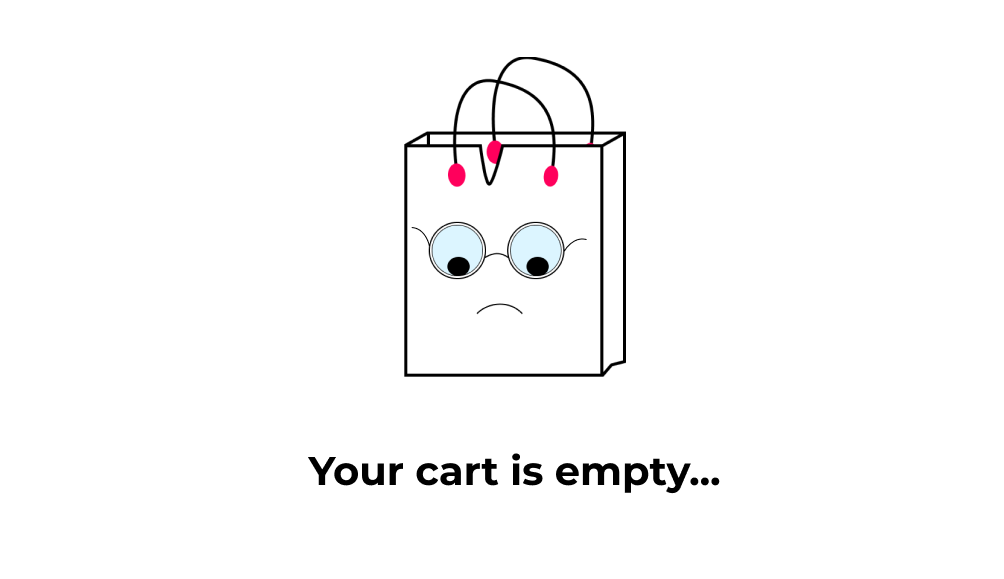
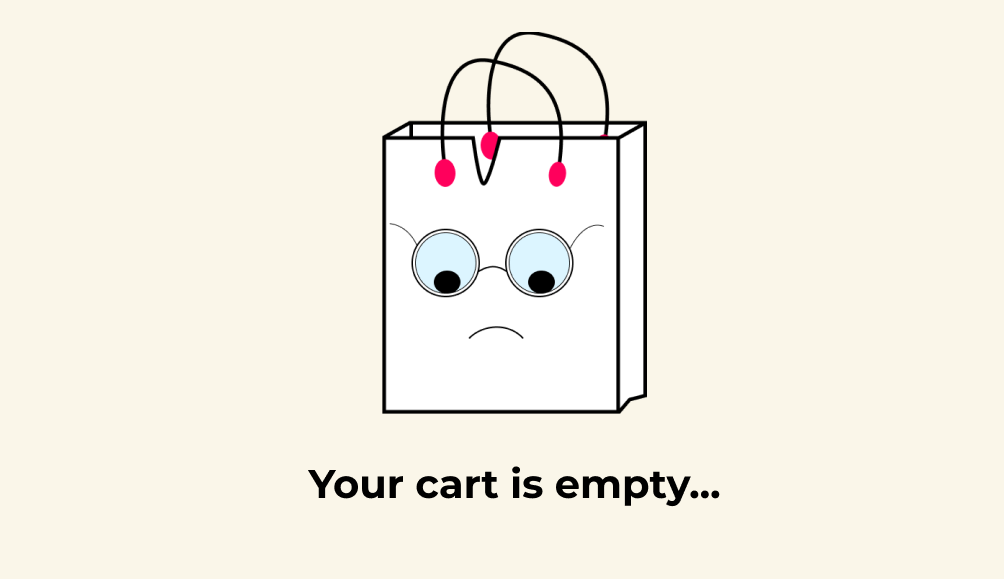
Change pictures Minor cart shop changes

Changed region(s): [[0.3705, 0.0311, 0.6484, 0.715], [0.3088, 0.7772, 0.7102, 0.8705], [0.4631, 0.5596, 0.5249, 0.5907]]

diff --git a/cart.css b/cart.css
@@ -19,7 +19,16 @@ html {
 .main-cart-container {
     display: flex;
 }
-
+.header {
+    width: 100%;
+    height: 300px;
+    overflow: hidden;
+}
+.shop-image {
+    object-fit: cover;
+    width: 100%;
+    height: 100%;
+}
 .cart-title {
     margin-left: 40px;
     margin-top: 30px;
@@ -27,12 +36,17 @@ html {
     font-weight: 900;
 }
 
+.empty-cart-title {
+    max-width: 700px;
+    padding: 30px;
+}
+
 .cart-item-container {
     display: flex;
     /* flex-wrap: wrap; */
     flex-direction: column;
     flex: 4;
-    background-color: lightcoral;
+    /* background-color: lightcoral; */
 }
 
 .checkout-item {
@@ -45,6 +59,10 @@ html {
     padding: 10px;
     width: 700px;
     margin-left: 30px;
+}
+
+.checkout-item:hover {
+    box-shadow: 2px 2px 2px 2px rgb(60, 60, 60, 0.4);
 }
 
 .checkout-photo {
@@ -104,7 +122,7 @@ html {
     display: flex;
     flex: 3;
     flex-direction: row;
-    background-color: lightblue;
+    /* background-color: lightblue; */
     align-items: center;
 }
 
@@ -114,6 +132,7 @@ html {
     align-items: center;
     justify-content: center;
     padding: 10px;
+    margin-left: 70px;
 }
 
 .submit-form {

diff --git a/cart.js b/cart.js
@@ -4,9 +4,9 @@ function setupOrderList() {
     const mainContainer = document.getElementById('itemContainer');
     mainContainer.innerHTML = "";
     if (shopItems == null || shopItems.length === 0) {
-        const emptyCartTitle = document.createElement('h3');
+        const emptyCartTitle = document.createElement('img');
         emptyCartTitle.className = 'empty-cart-title';
-        emptyCartTitle.innerHTML = 'Your orders will be placed here!';
+        emptyCartTitle.src = 'Frame 7.png';
         mainContainer.appendChild(emptyCartTitle);
     } else {
         for (let shopItem of shopItems) {

diff --git a/shop.css b/shop.css
@@ -16,10 +16,14 @@ body, html {
 }
 
 .header {
-    padding: 80px;
-    text-align: center;
-    background: #1abc9c;
-    color: white;
+    width: 100%;
+    height: 400px;
+    overflow: hidden;
+}
+.shop-image {
+    object-fit: cover;
+    width: 100%;
+    height: 100%;
 }
 
 .redirection {
@@ -67,6 +71,8 @@ body, html {
     flex: 2;
     width: 20%;
     background-color: white;
+    position: relative;
+    display: inline-block;
 }
 
 

diff --git a/cart.html b/cart.html
@@ -11,6 +11,9 @@
     <div class="navigation-bar" id="navigationBar">
 
     </div>
+    <div class="header">
+        <img src="Frame 5.png" class="shop-image">
+      </div>
     <h2 class="cart-title">
         Your Orders
     </h2>
@@ -37,7 +40,7 @@
                     
                 </div>
                 <div class="checkout-price-container">
-                    gggg
+                   
                 </div>
             </div>
 

diff --git a/shop.html b/shop.html
@@ -13,8 +13,7 @@
     </div>
   <!-- header - discount -->
   <div class="header">
-    <h1>My Website</h1>
-    <p>With a <b>flexible</b> layout.</p>
+    <img src="Frame 5.png" class="shop-image">
   </div>
   <div class="redirection">
     <a href="index.html" class="redirection-link">Home Page</a>
